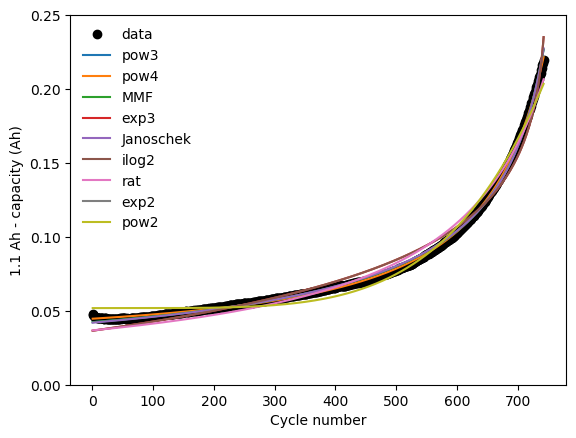
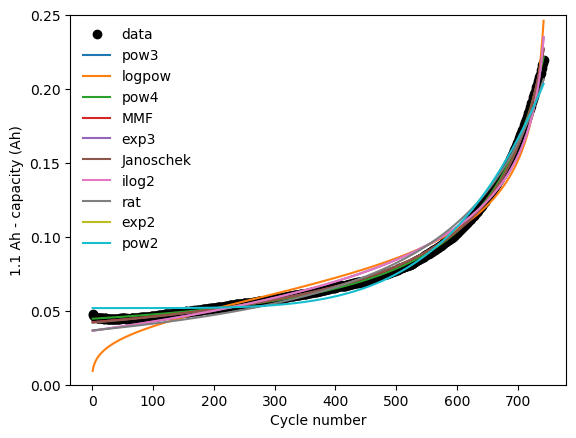
add logpow

diff --git a/domhan_comparison/Qn_plots.py b/domhan_comparison/Qn_plots.py
@@ -41,6 +41,9 @@ if comparison_plots:
 def pow3(x, a, b, c):
     return a/(b-x)**c
 
+def logpow(x, a, b, c):
+    return a*(b/x-1)**c
+
 def pow4(x, a, b, c, d):
     return a/(b-x)**c + d
 
@@ -83,6 +86,10 @@ bounds4=([-np.inf, 750, -np.inf, -np.inf], [np.inf, np.inf, np.inf, np.inf])
 # pow3
 popt,pcov = curve_fit(pow3, x, y, bounds=bounds3)
 plt.plot(x,pow3(x,popt[0],popt[1],popt[2]), label='pow3')
+
+# logpow
+popt,pcov = curve_fit(logpow, x, y, bounds=bounds3)
+plt.plot(x,logpow(x,popt[0],popt[1],popt[2]), label='logpow')
 
 # pow4
 popt,pcov = curve_fit(pow4, x, y, bounds=bounds4)
